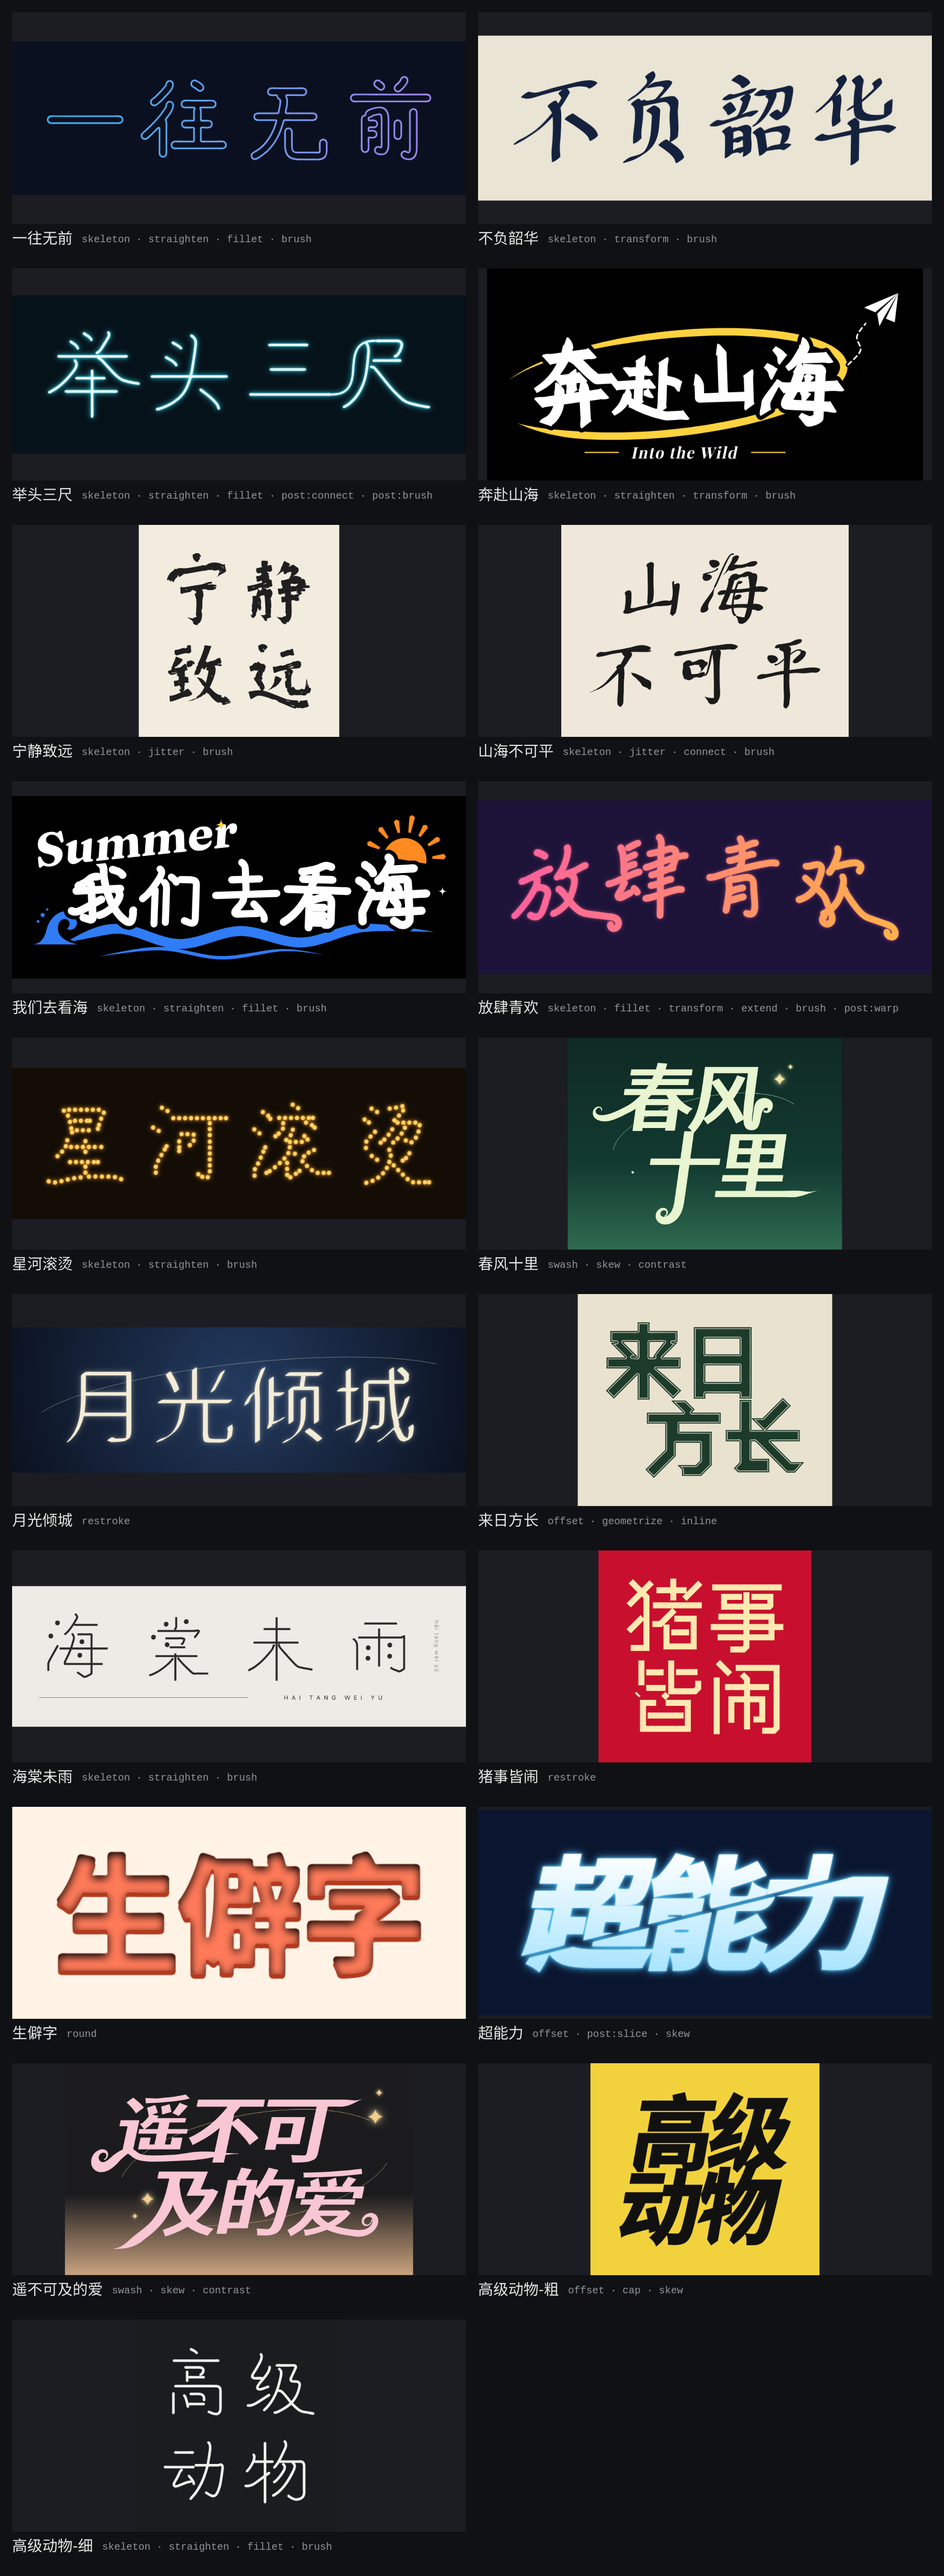
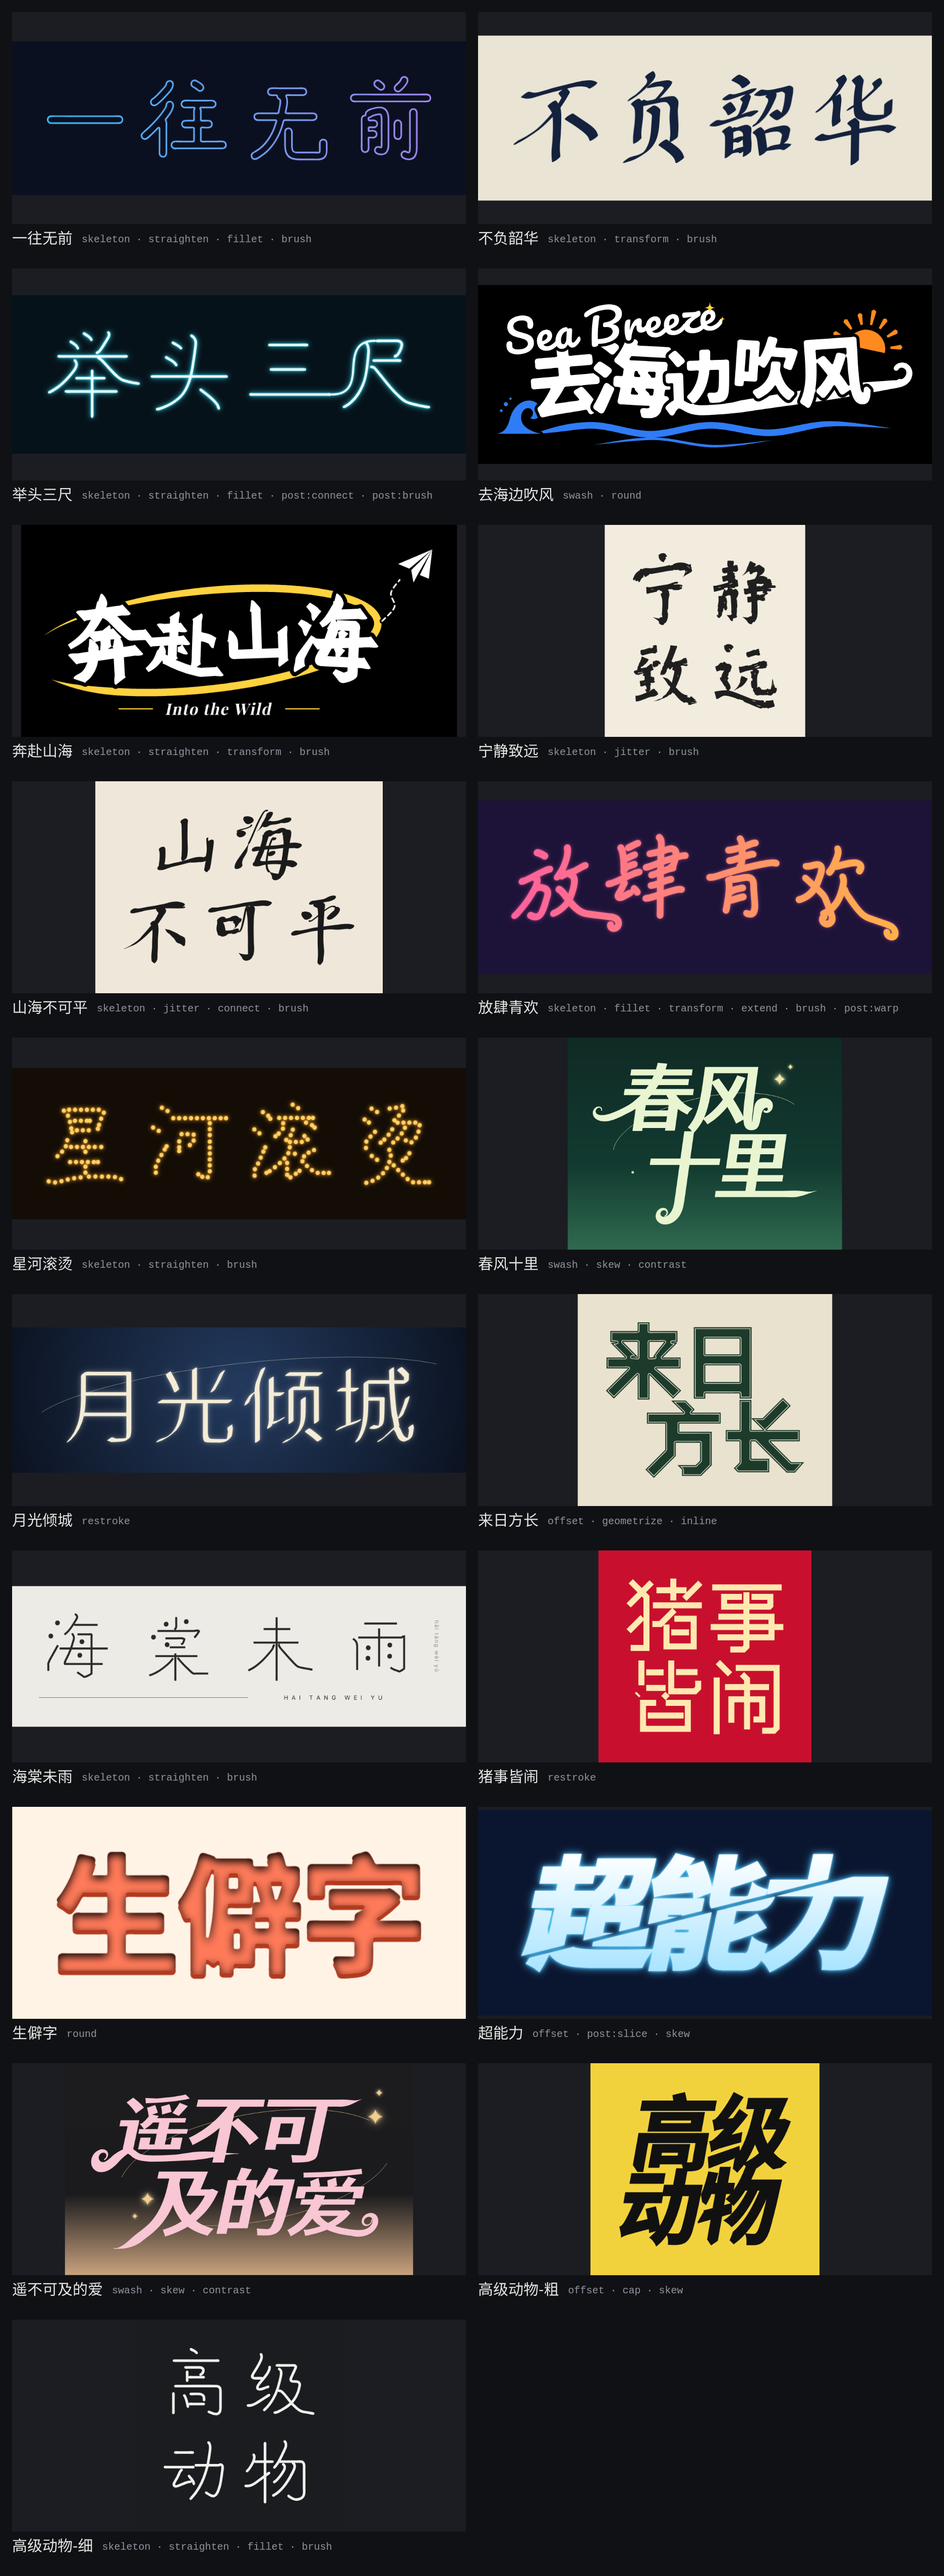
lab: 去海边吹风 poster from font outlines, replaces 我们去看海; docs

Changed region(s): [[0.0, 0.1869, 0.4957, 0.405], [0.4957, 0.0935, 0.9915, 0.3115]]

diff --git a/lab/README.md b/lab/README.md
@@ -77,18 +77,18 @@ npx tsx lab/deform/review.ts lab/recipes/山海不可平.json --ref Kai
 | 字段 | 含义 |
 | --- | --- |
 | `lines` | 每行的文字 |
-| `font`、`weight` | flexlayer 的字体名和字重。可变字体只能取默认字重。写 `hanzi` 时不用字体，字形来自开源逐笔数据 |
+| `font`、`weight` | flexlayer 的字体名和字重，或[额外字体](#额外字体)的名字。可变字体只能取默认字重。写 `hanzi` 时不用字体，字形来自开源逐笔数据 |
 | `synthWeight` | 用 `anyFontWeight` 合成的字重 |
 | `contrast` | `{ vertical, horizontal }`，竖画、横画各自加粗多少，负数变细 |
 | `tracking`、`leading`、`indent` | 字距、行距、每行缩进 |
-| `glyphs` | 单字微调 `{ dx, dy, scale, rotate }`，键是字序号或字本身 |
+| `glyphs` | 单字微调 `{ dx, dy, scale, rotate, z }`，键是字序号或字本身；`z` 是逐字描边时的叠放次序，大的在上 |
 | `skew` | 整体倾斜，正数向右倒 |
 | `steps` | 逐字操作，见下文 |
 | `post` | 排版后对整段文字的操作，写法同 `steps` |
 | `swashes` | 旧写法，等于排在最前面的 `{ "op": "swash", "items": [...] }` |
 | `fill`、`glow`、`background` | 字色、发光、背景（可以写 `linear-gradient(...)`、`radial-gradient(...)`） |
 | `attrs` | 原样写到字形上的 flexlayer 效果，如 `{ "inner-shadow": "0 -10 14 #0006", "shadow": "0 14 0 #b23a1f" }` |
-| `outline` | `{ width, color }`，整段字外面一圈描边，压住底下的装饰 |
+| `outline` | `{ width, color, each }`，整段字外面一圈描边，压住底下的装饰；`each` 时逐字描边、叠着画 |
 | `decor` | 装饰，见下文。坐标以第一行字身左上角为原点 |
 | `padding` | 画面四周留白 |
 | `curves` | 默认 `true`，输出前把轮廓拟合成贝塞尔曲线 |
@@ -180,9 +180,38 @@ npx tsx lab/deform/review.ts lab/recipes/山海不可平.json --ref Kai
 
 `taper` 让环线、折线两头收尖，写全长的比例，一个数两头一样，`[起, 收]` 分开写，收尖段按四分之一正弦从 0 长到 `width`。`smooth` 让折线用 Catmull-Rom 曲线穿过每个折点。`skew` 是小字的斜体角度，正数向右倒，用来补没有斜体字体的缺。图标在 `lab/deform/icons.ts`，有 `paper-plane`、`sun`、`wave`、`plane`、`mountain`、`spark`。
 
-配方写 `"outline": { "width": 0.045, "color": "#000000" }` 给整段字加一圈描边，像贴纸的黑边：画的顺序是背景、字下面的装饰、字的描边、字、字上面的装饰，所以穿过字的环线、浪花会在字边断开。
+配方写 `"outline": { "width": 0.045, "color": "#000000" }` 给整段字加一圈描边，像贴纸的黑边：画的顺序是背景、字下面的装饰、字的描边、字、字上面的装饰，所以穿过字的环线、浪花会在字边断开。加 `"each": true` 改成每个字各描一圈、按顺序叠着画：字距挤到字和字相叠时，后一个字的描边在前一个字上切出一道缝，像一张张贴纸，不会糊成一团；`glyphs` 里的 `z` 调整谁压谁。
 
 拼音带声调时用 `Inter` 字体，NotoSans 里没有这些字母。NotoSans 的字身高约 1.45 em，墨迹大致在 y 0.32–1.23 em 之间，摆装饰时可以参考。`"font": "hanzi"` 的字身是 1 em 见方。
+
+## 字体轮廓路线
+
+要做海报标题那种字，与其从中线重画每一笔，不如从一款好的粗字体出发，只在设计需要的地方动手。笔画的结构、粗细、字腔是字体设计师调好的，重画只会变差；标题字的味道主要来自排版和少数几处夸张：
+
+1. **选底字**：要粗就直接用字体自己的粗字重（如 `NotoSansBlack`），比 `offset` 外扩干净，字腔留得住，交接处不起疙瘩。再用 `round` 倒一点圆角。
+2. **一两处夸张**：用 `swash` 把一个开阔的末端拉长成贯穿整行的飘带，末尾卷起来。
+3. **错落**：`glyphs` 里逐字放大缩小、上下错开、各歪几度，字距挤到相叠。
+4. **贴纸层次**：`outline.each` 逐字描边叠放，`z` 决定谁压谁；装饰分字下、字上两层，各自可以描边。
+5. **配字**：英文用连写字体（如 `Pacifico`），图标、浪线、光芒都是矢量装饰。
+
+![去海边吹风](examples/去海边吹风.png)
+
+「去海边吹风」就是这样做的：思源黑体 Black 倒圆角，「边」的平捺拉长 2.35 em，从「吹风」底下穿过去，在末尾向上卷成浪花；五个字大小、高低、角度各不相同，逐字描边叠放；字下面是太阳和收尖的浪线，上面是描边的 Pacifico 英文。配方在 `lab/recipes/去海边吹风.json`。
+
+### 额外字体
+
+`lab/deform/fonts.ts` 登记了 flexlayer 目录以外的开源字体。配方里直接写名字，第一次用到时下载到 `~/.cache/anyfontweight-lab/fonts` 并注册，`decor` 的小字也能用：
+
+| 名字 | 字体 | 许可 |
+| --- | --- | --- |
+| `NotoSansBlack` | 思源黑体 Black（900） | OFL |
+| `QingKe` | 站酷庆科黄油体 | OFL |
+| `ZhiMangXing` | 钟齐志莽行书 | OFL |
+| `LongCang` | 龙藏体 | OFL |
+| `Pacifico` | 圆胖的连写英文 | OFL |
+| `Yellowtail` | 细连写英文 | Apache |
+| `KaushanScript` | 笔刷连写英文 | OFL |
+| `PermanentMarker` | 马克笔英文 | Apache |
 
 ## 开源骨架加笔刷
 
@@ -380,11 +409,9 @@ npx tsx lab/deform/pens.ts [文字，默认 永国东书心] [输出路径]
 | 猪事皆闹 | 粗方头重描，交叉处断开，方向吸附到 45° |
 | 来日方长 | 外扩，几何化吸附 45°，内刻线 |
 | 奔赴山海 | 开源骨架规整，横画斜 5°，竖长矩形笔尖跟着走向转、两头斜切，像粗马克笔；字有大有小、各自歪一点；黑描边压断黄色收尖的环线，虚线轨迹接纸飞机，斜体英文副标题 |
-| 我们去看海 | 开源骨架规整、圆转，粗圆形笔尖，像手写圆体；黑描边，蓝色收尖的平滑浪线和浪花、橙色太阳在字下面，描边的英文标题压在字上 |
+| 去海边吹风 | 思源黑体 Black 倒圆角，「边」的平捺拉成飘带卷起，逐字错落、逐字描边叠放，太阳和浪线在下，Pacifico 英文在上，见[字体轮廓路线](#字体轮廓路线) |
 
 ![奔赴山海](examples/奔赴山海.png)
-
-![我们去看海](examples/我们去看海.png)
 
 ![海棠未雨](examples/海棠未雨.png)
 
@@ -480,6 +507,7 @@ npx tsx lab/deform/review.ts lab/bench/留出.json --brief
 - `synthWeight` 合成到很粗时，笔画重叠处会出小尖刺，`offset` 更干净。
 - `round` 的凹角半径和 `offset` 都会让窄字腔变窄甚至填死。
 - 延长段只和原字形取并集，不会自动避让别的字，撞上了要改 `bend` 或 `length`。
+- 额外字体第一次用要联网下载，思源黑体 Black 约 9 MB。
 - 装饰的位置都要手写坐标，不会自动绕开字；可用的字体里没有手写体和真斜体，英文标题只能用衬线字体加 `skew` 近似。
 - `contrast` 偏移量太大时字腔会变形，大约 0.015 em 以内比较稳。
 - 贝塞尔拟合按 40° 以上的转角断开，圆滑的部分合并成曲线；锯齿很多的轮廓（如抖动过的）节点不会少多少。
